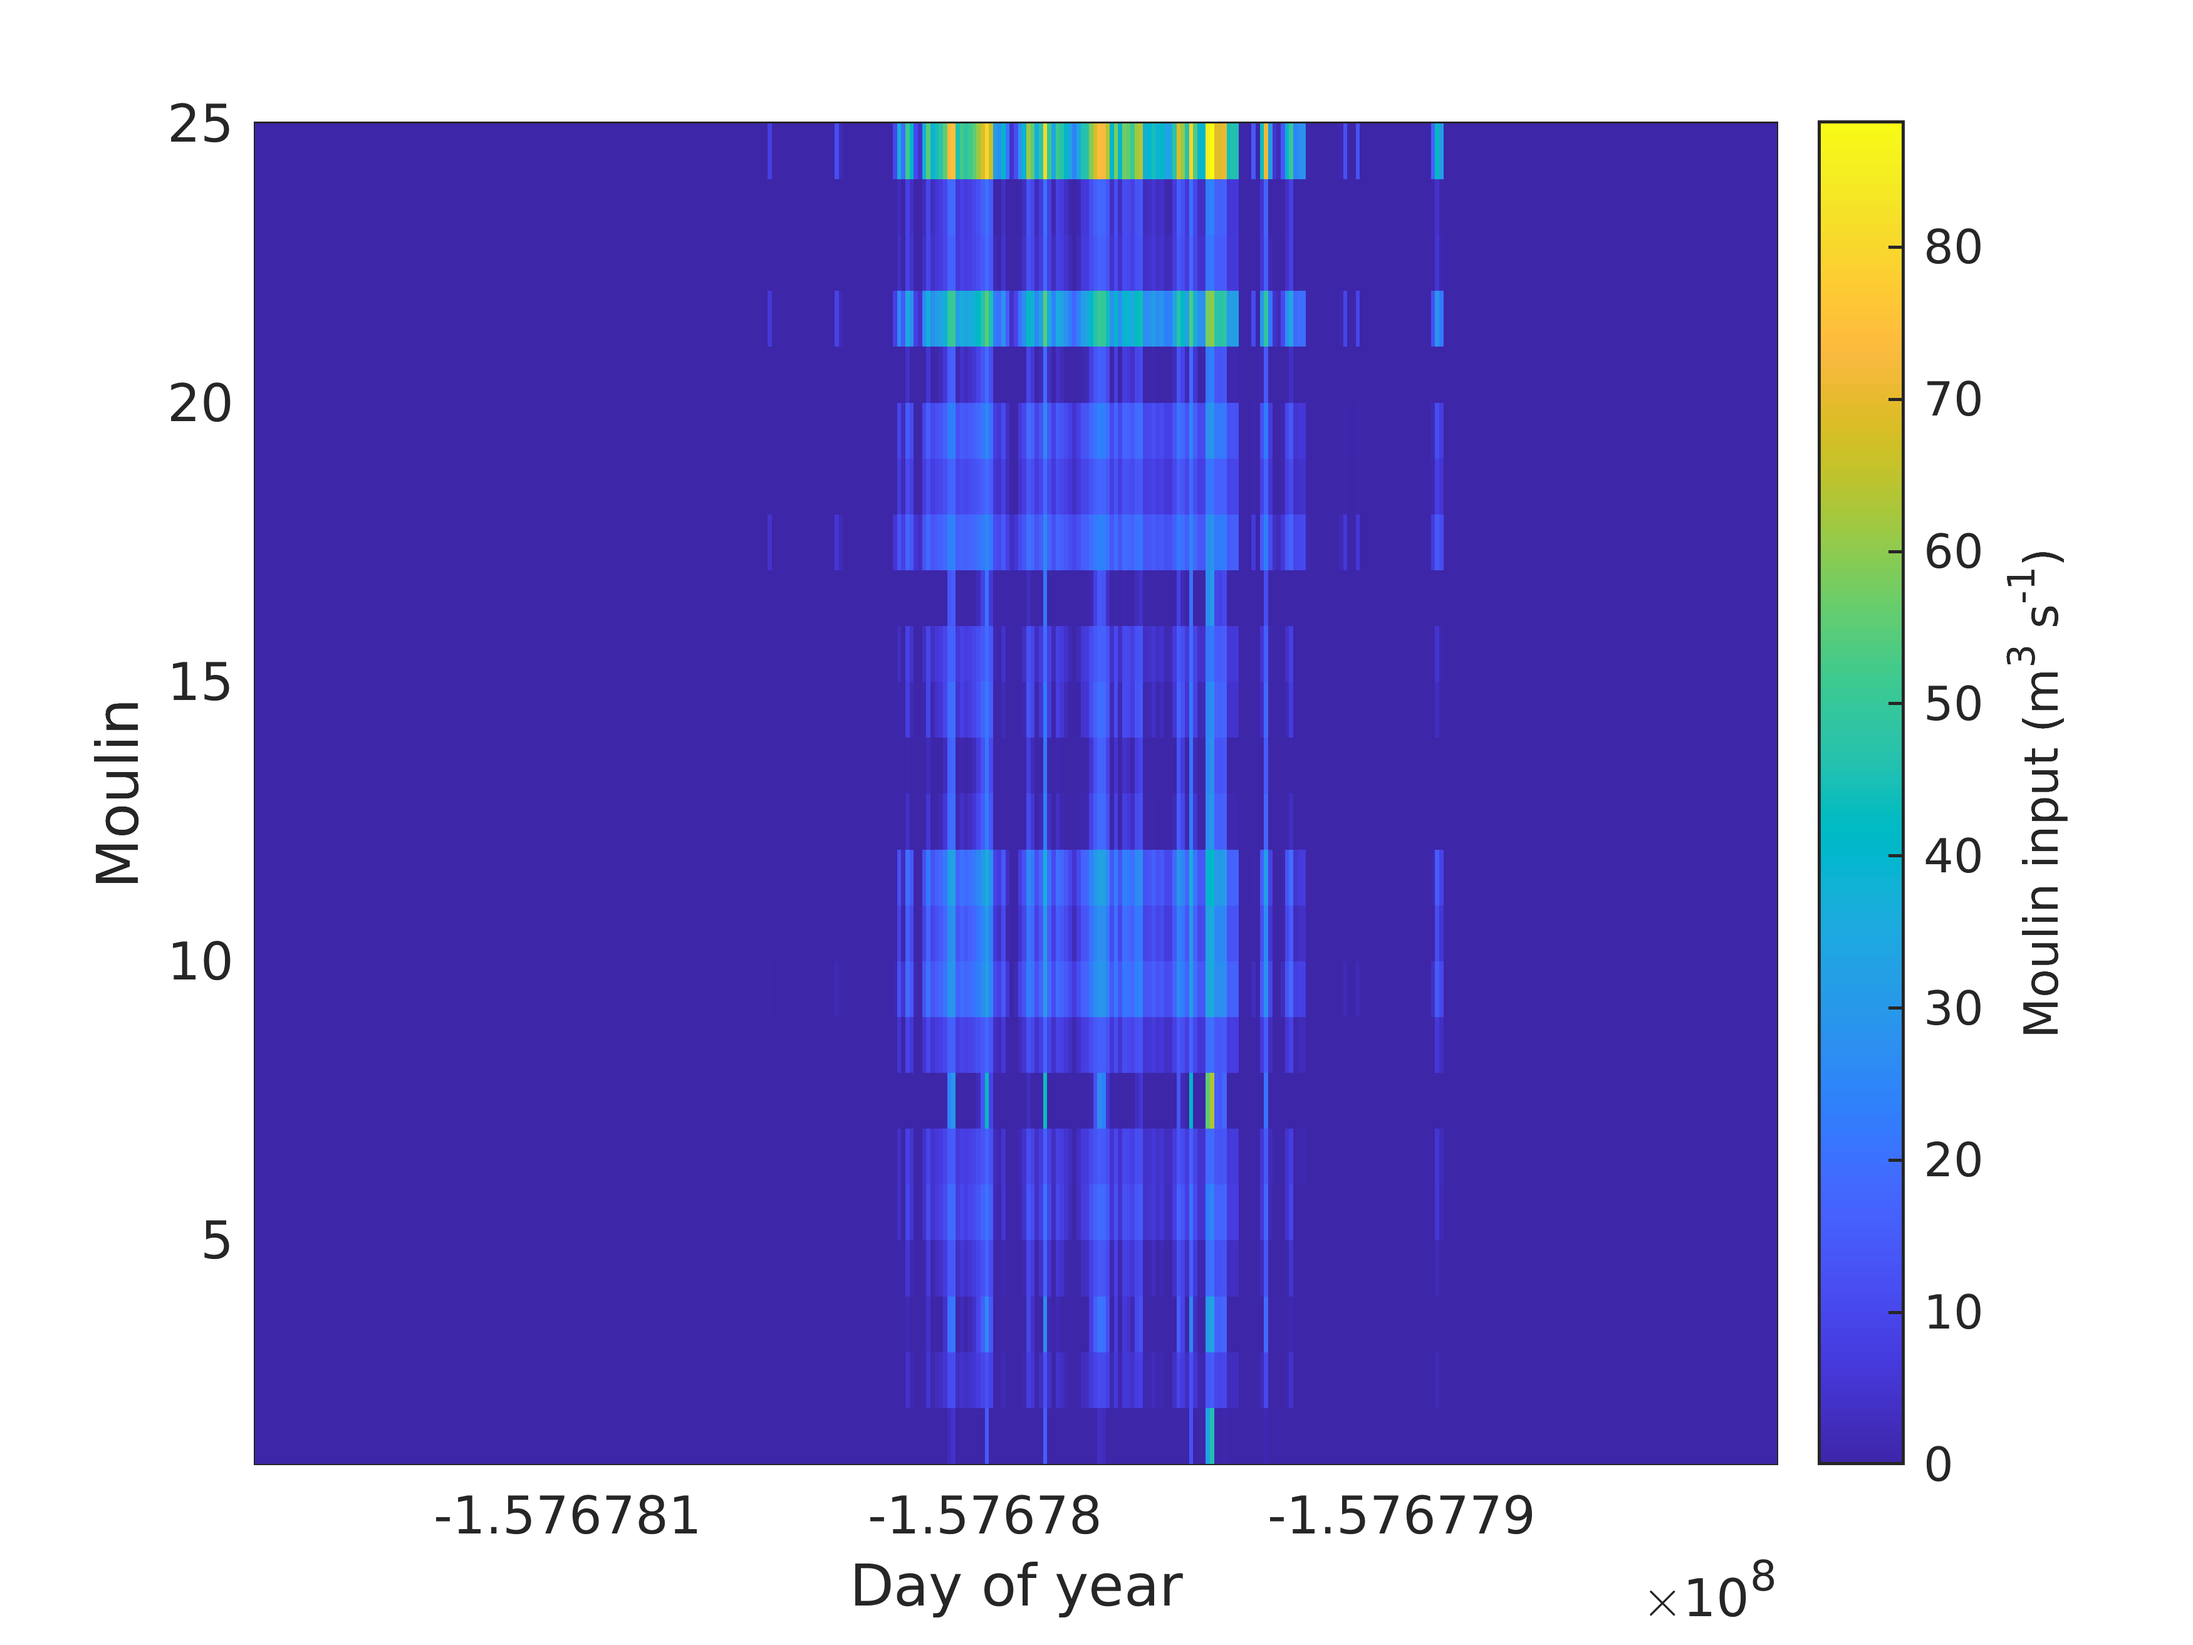
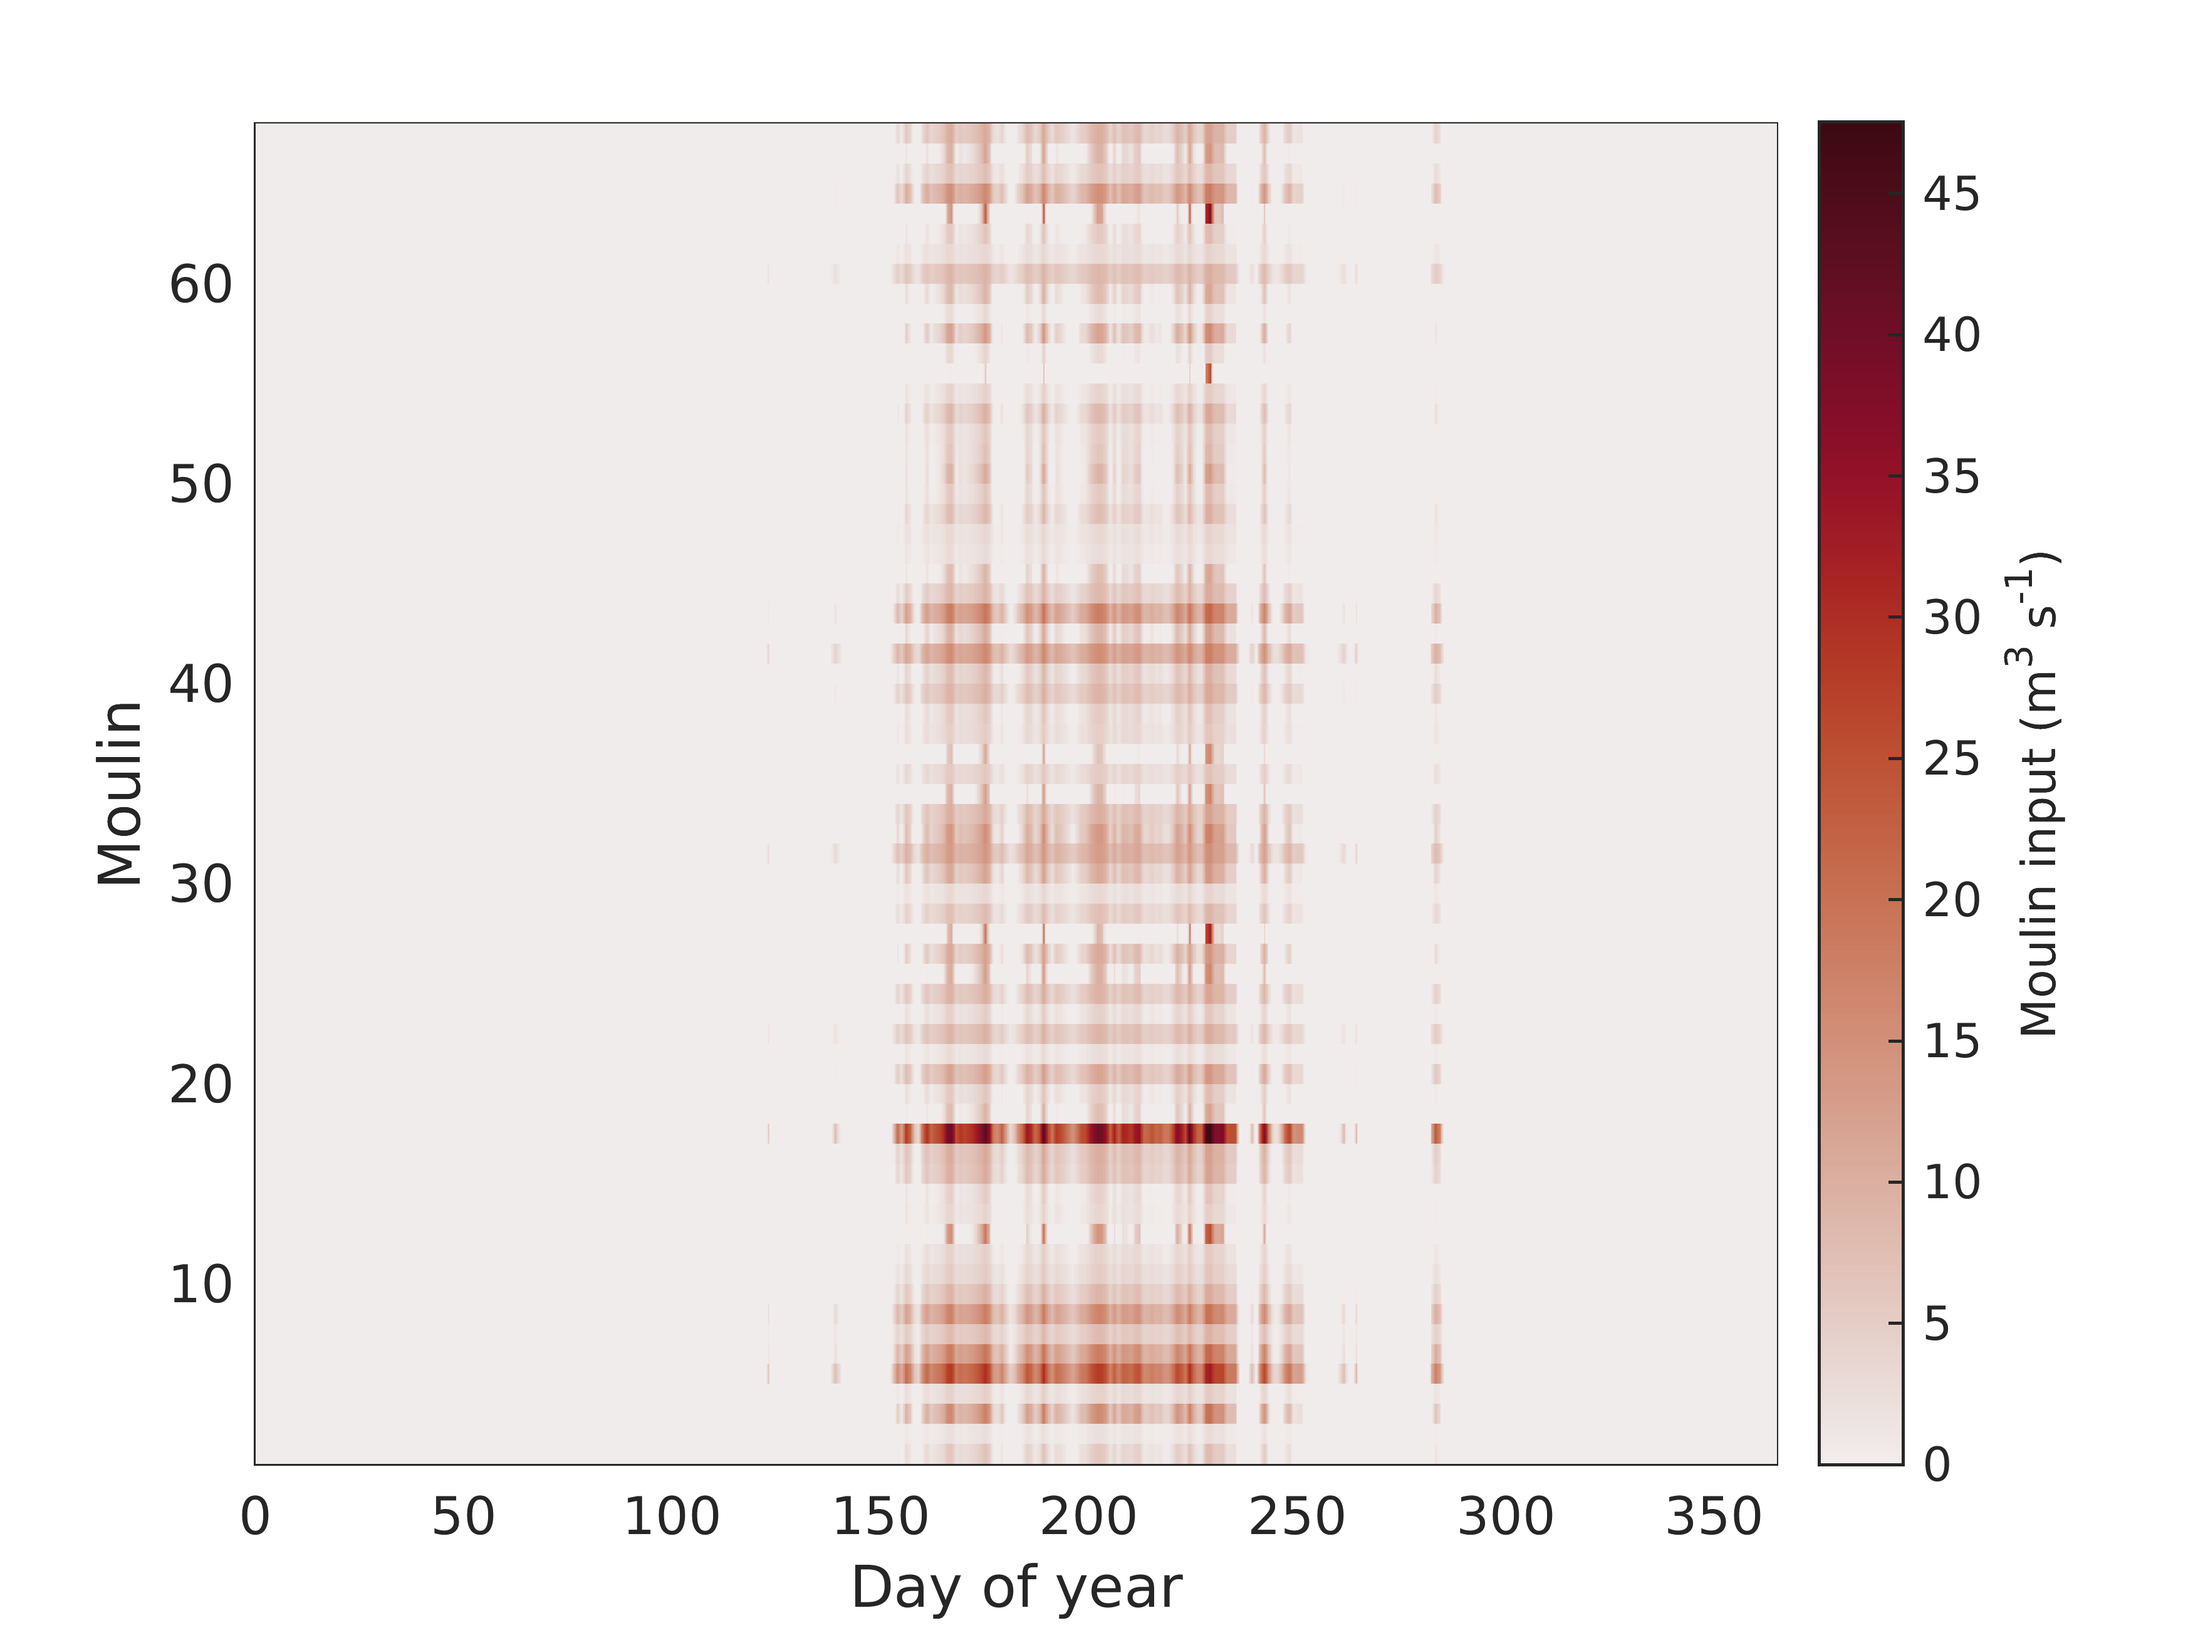
Add locals

diff --git a/glads/data/kan_l_melt/plot_KAN_moulin.m b/glads/data/kan_l_melt/plot_KAN_moulin.m
@@ -1,34 +1,47 @@
 % function melt=KAN_moulin(time, pin, dmesh, ii_moulin, catchmap, ra)
 
-moulins = load('../synthetic_moulins_KAN/moulins_KAN_025.txt');
+moulins = load('../moulins/moulins_068.txt');
 ii_moulin = moulins(:, 1);
-catchmap = load('../synthetic_moulins_KAN/catchment_map_KAN_025.txt');
+catchmap = load('../moulins/catchment_map_068.txt');
 meshes = load('../mesh/mesh.mat');
 dmesh = meshes.meshes{4};
 
-pin.bed_elevation = @(xy, tt) 0*xy(:, 1) + 350;
-pin.ice_thickness = @(xy, tt) 6*(sqrt(xy(:, 1) + 5000) - sqrt(5000)) + 390 - 350;
+addpath('../topo_x_squared_para/')
+addpath('../functions/')
+%pin.bed_elevation = @(xy, tt) 0*xy(:, 1) + 350;
+%pin.ice_thickness = @(xy, tt) 6*(sqrt(xy(:, 1) + 5000) - sqrt(5000)) + 390 - 350;
 
-tt = 86400*(0:365) + 5*365*86400;
+pin.bed_elevation = @(xy, t) bed_elevation_flat(xy, t);
+pin.ice_thickness = @(xy, t) ice_thickness_flat(xy, t);
 
+tt = 86400*(0:0.25:365) + 100*365*86400;
 melt = zeros(dmesh.tri.n_nodes, length(tt));
 for ii=1:length(tt)
-    melt(:, ii) = KAN_moulin(tt(ii), pin, dmesh, ii_moulin, catchmap, 0);
+    melt(:, ii) = KAN_moulin_seasonal(tt(ii), pin, dmesh, ii_moulin, catchmap);
 end
 
-t_plt = tt/86400 - tt(1);
+dt= tt(2) - tt(1);
+total_minputs = sum(melt(:))
+area = 100e3 * 25e3;
+mean_melt = total_minputs/area * dt
+
+
+t_plt = tt/86400 - tt(1)/86400;
 m_plt = 1:length(ii_moulin);
 [xx, yy] = meshgrid(t_plt, m_plt);
 
 figure
 pcolor(xx, yy, melt(ii_moulin, :))
-% caxis([0, 10])
+% caxis([0, 40])
 shading flat
 cb = colorbar;
 cb.Label.String = 'Moulin input (m^3 s^{-1})';
 xlabel('Day of year')
 ylabel('Moulin')
-% cmocean('amp')
+cmocean('amp')
 print('KAN_moulin_inputs', '-dpng', '-r600')
 
 max(melt(ii_moulin, :), [], 2)
+
+figure
+plot(t_plt, melt(ii_moulin(17), :))
